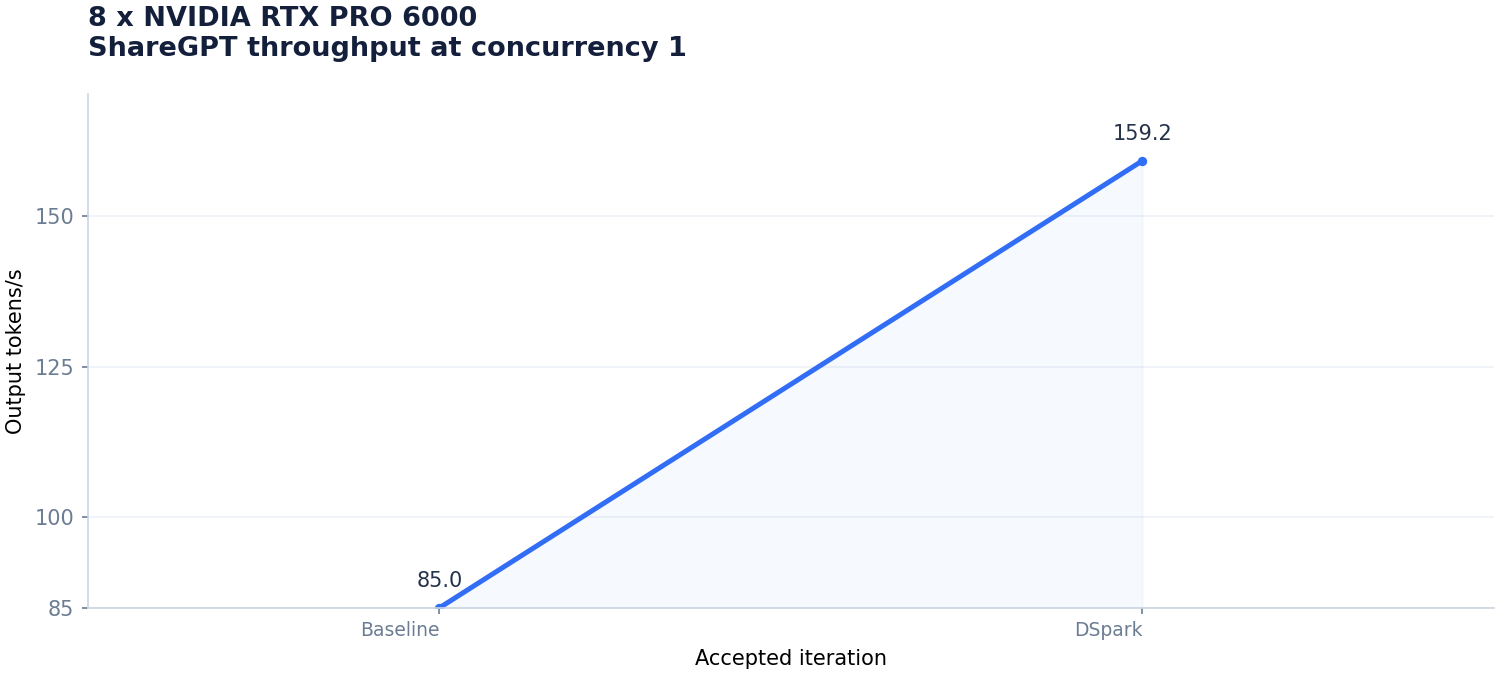
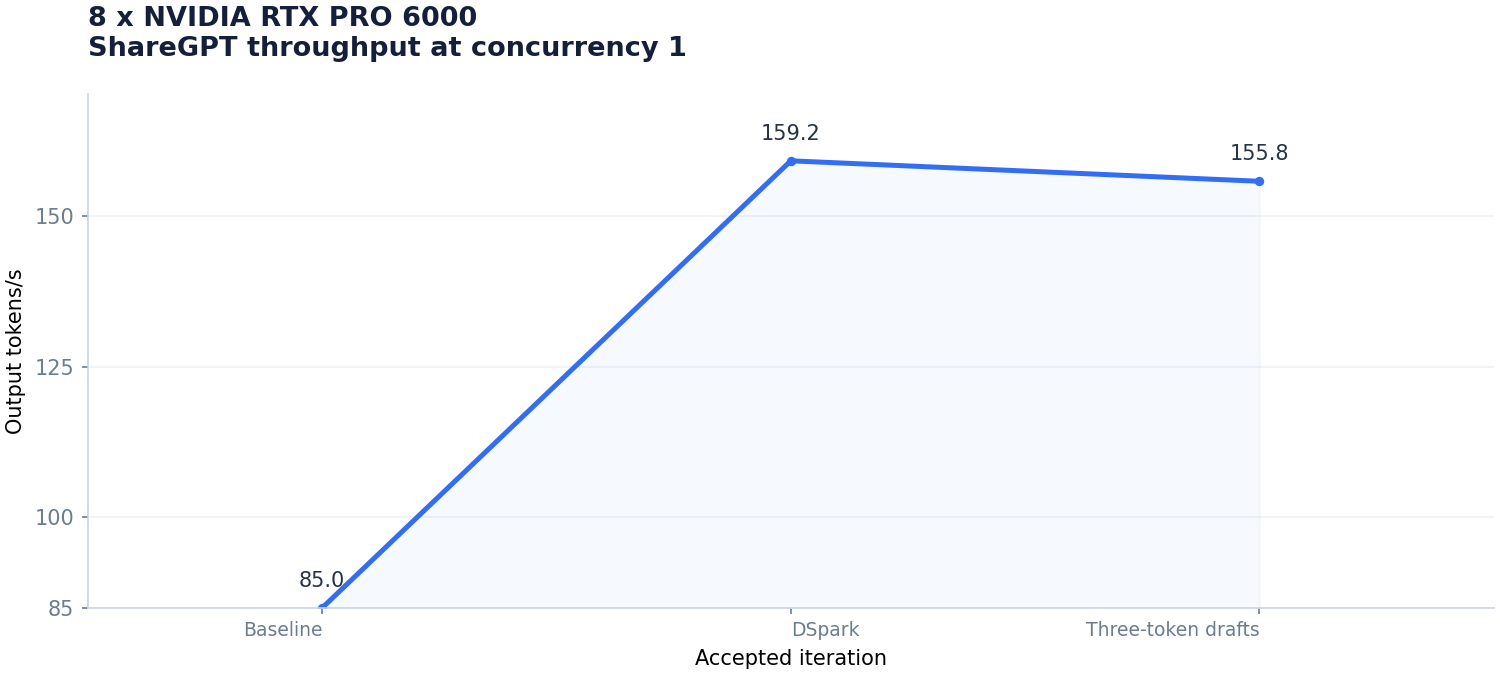
Use three-token drafts

diff --git a/8-nvidia-rtx-pro-6000/CHANGELOG.md b/8-nvidia-rtx-pro-6000/CHANGELOG.md
@@ -4,11 +4,10 @@ The patch is cumulative against `vllm/vllm-openai:v0.32.0`; every working milest
 
 FlashInfer 0.7.1 replaces the bundled 0.7.0.post1 for runtime page-size support, and both the sm120 compatibility patch and `--block-size 64` are required.
 
-## 2. DSpark decoding
+## 3. Three-token drafts
 
-- Enable the checkpoint's five-token DSpark draft so the target model can verify several tokens in one pass.
-- Bound indexer logits to the profiled 512 MiB budget because the original allocation failed with CUDA OOM at concurrency 256.
--    --block-size 64
+- Reduce the draft from five to three tokens because later positions are rarely accepted and still add verification work.
+-    --speculative-config '{"method":"dspark","num_speculative_tokens":5,"revision":"1bae0e1088993b9b82de08f59de5be5a34e42170"}'
 
 Requirements, on a fresh vLLM image:
 
@@ -32,23 +31,24 @@ vllm serve deepseek-ai/DeepSeek-V4.1-Flash-1017 \
     --reasoning-parser deepseek_v41 \
     --mm-encoder-tp-mode data \
     --block-size 64 \
-    --speculative-config '{"method":"dspark","num_speculative_tokens":5,"revision":"1bae0e1088993b9b82de08f59de5be5a34e42170"}'
+    --speculative-config '{"method":"dspark","num_speculative_tokens":3,"revision":"1bae0e1088993b9b82de08f59de5be5a34e42170"}'
 ```
 
 | Concurrency | Prompts | Output t/s | p95 TTFT (ms) | p95 TPOT (ms) |
 |---:|---:|---:|---:|---:|
-| 1 | 128 | 159.2 | 136.6 | 8.17 |
-| 4 | 128 | 380.4 | 134.1 | 13.32 |
-| 8 | 128 | 496.2 | 223.9 | 20.79 |
-| 16 | 128 | 650.5 | 283.8 | 30.43 |
-| 32 | 128 | 954.1 | 434.3 | 38.53 |
-| 64 | 128 | 1185.0 | 903.5 | 65.98 |
-| 128 | 256 | 1471.9 | 1508.4 | 93.65 |
-| 256 | 512 | 1726.3 | 3355.1 | 170.67 |
+| 1 | 128 | 155.8 | 136.2 | 7.61 |
+| 4 | 128 | 383.7 | 116.2 | 12.26 |
+| 8 | 128 | 528.1 | 225.2 | 17.13 |
+| 16 | 128 | 681.7 | 284.8 | 26.60 |
+| 32 | 128 | 909.9 | 427.0 | 39.72 |
+| 64 | 128 | 1227.4 | 872.2 | 50.68 |
+| 128 | 256 | 1677.5 | 1451.8 | 81.97 |
+| 256 | 512 | 2288.8 | 2785.3 | 143.19 |
 
 ## Accepted progress
 
 | Stage | Change | c1 t/s | Revision |
 |---:|---|---:|---|
 | 1 | sm120 support | 85.0 | [`0cd46b2`](https://github.com/alvarobartt/DeepSeek-V4.1-Flash-RTX-PRO-6000/tree/0cd46b25086a61436eb0979abf115f66442e889e) |
-| 2 | DSpark decoding | 159.2 | This revision |
+| 2 | DSpark decoding | 159.2 | [`e5ac344`](https://github.com/alvarobartt/DeepSeek-V4.1-Flash-RTX-PRO-6000/tree/e5ac344074d1e9141c50e3178cde4e2a3680da8b) |
+| 3 | Three-token drafts | 155.8 | This revision |

diff --git a/README.md b/README.md
@@ -15,14 +15,14 @@ Validated serving recipes for four and eight GPUs, using the checkpoint's origin
 
 | Concurrency | Baseline t/s [^8gpu-baseline] | Baseline + DSpark t/s | Current t/s |
 |---:|---:|---:|---:|
-| 1 | 85.0 | **159.2 (+87.3%)** | **159.2 (+0.0%)** |
-| 4 | 253.2 | **380.4 (+50.2%)** | **380.4 (+0.0%)** |
-| 8 | 375.4 | **496.2 (+32.2%)** | **496.2 (+0.0%)** |
-| 16 | 553.1 | **650.5 (+17.6%)** | **650.5 (+0.0%)** |
-| 32 | 657.4 | **954.1 (+45.1%)** | **954.1 (+0.0%)** |
-| 64 | 866.2 | **1185.0 (+36.8%)** | **1185.0 (+0.0%)** |
-| 128 | 1242.4 | **1471.9 (+18.5%)** | **1471.9 (+0.0%)** |
-| 256 | **1814.1** | 1726.3 (-4.8%) | 1726.3 (+0.0%) |
+| 1 | 85.0 | **159.2 (+87.3%)** | 155.8 (-2.1%) |
+| 4 | 253.2 | 380.4 (+50.2%) | **383.7 (+0.9%)** |
+| 8 | 375.4 | 496.2 (+32.2%) | **528.1 (+6.4%)** |
+| 16 | 553.1 | 650.5 (+17.6%) | **681.7 (+4.8%)** |
+| 32 | 657.4 | **954.1 (+45.1%)** | 909.9 (-4.6%) |
+| 64 | 866.2 | 1185.0 (+36.8%) | **1227.4 (+3.6%)** |
+| 128 | 1242.4 | 1471.9 (+18.5%) | **1677.5 (+14.0%)** |
+| 256 | 1814.1 | 1726.3 (-4.8%) | **2288.8 (+32.6%)** |
 
 ![Accepted ShareGPT c1 throughput](8-nvidia-rtx-pro-6000/throughput.png)
 
